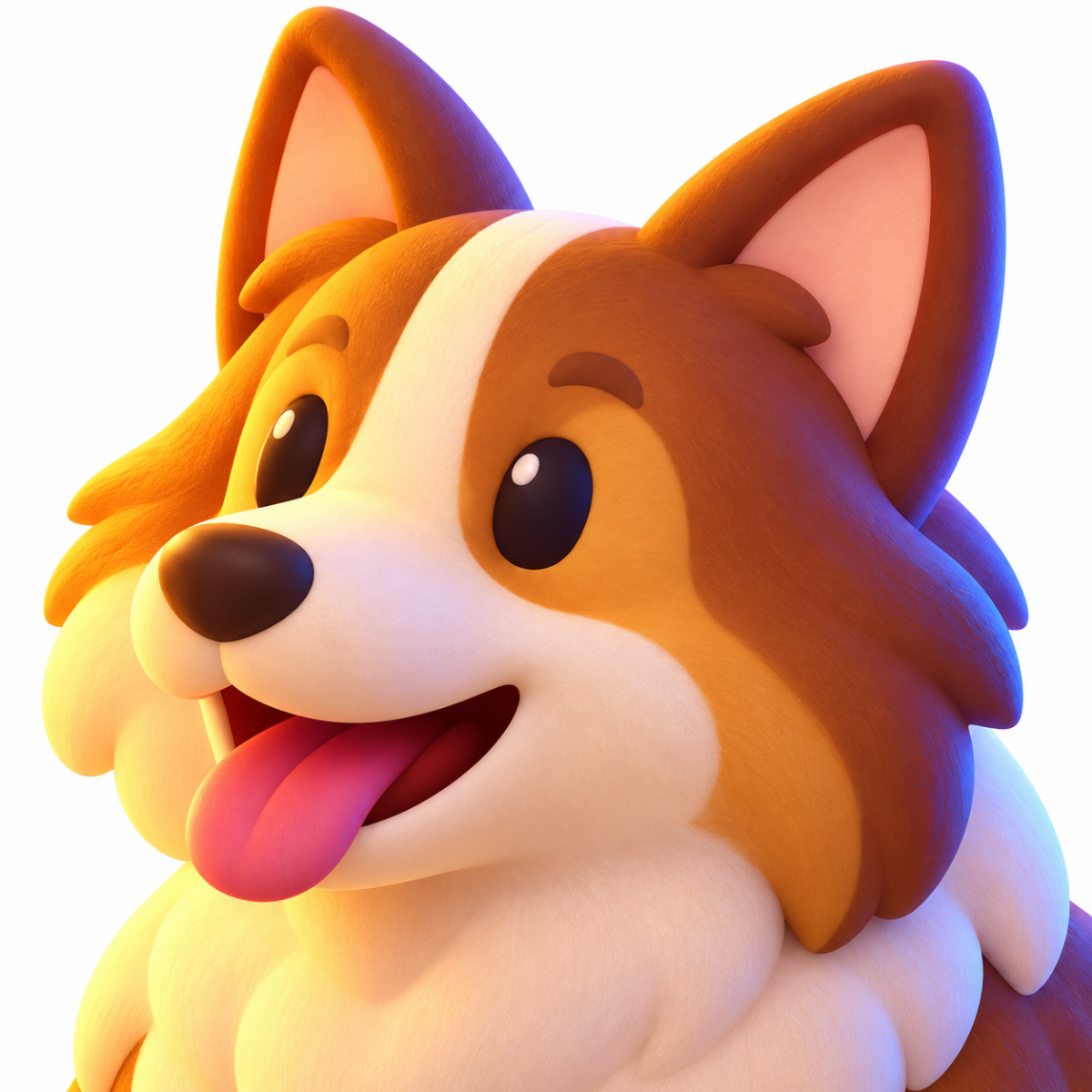
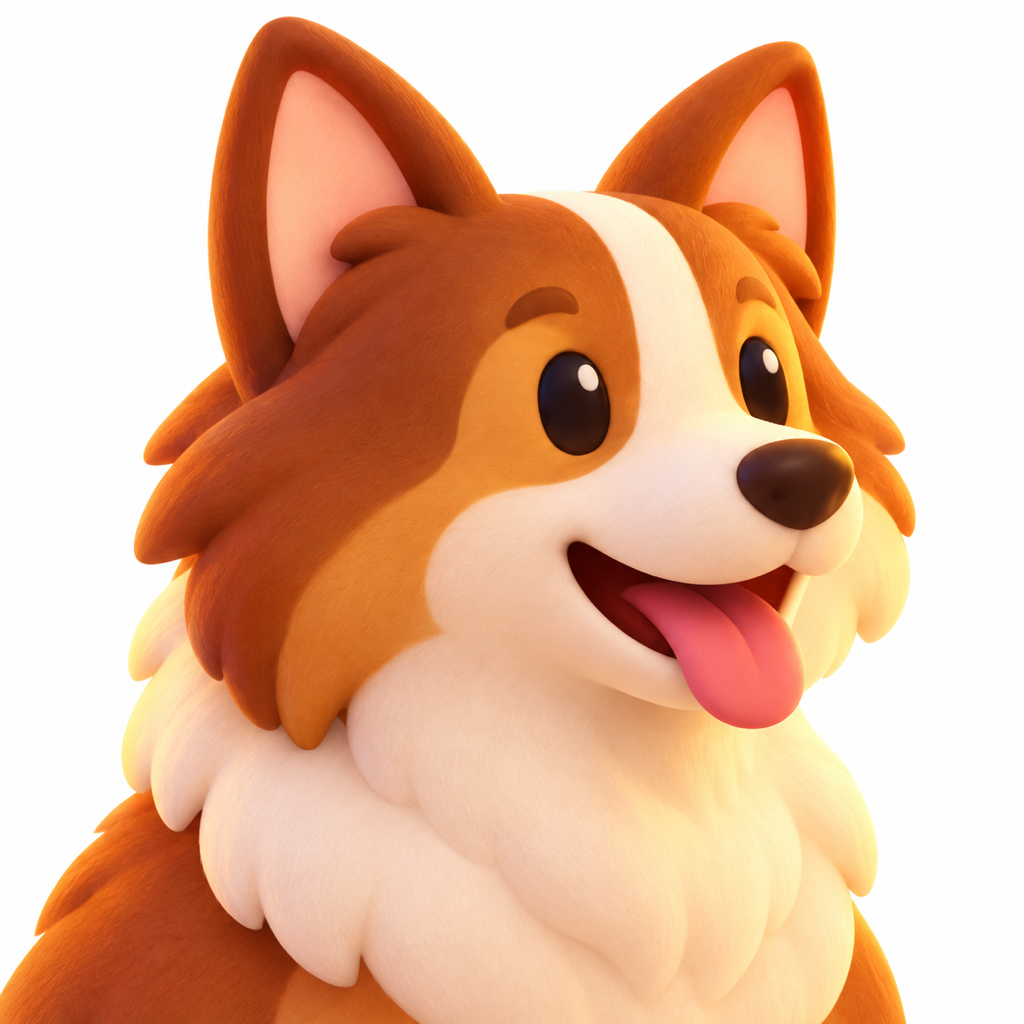
feat(art): 仿主流手遊三套圖分工——棋盤 Q 版小人、卡片頭像、圖鑑 512px 立繪＋燈箱；41 條稱號；小居批量生圖 56 張（James 10/26 拍板完整版）
- 28 個角色各生 Q 版（q-*）與頭像（h-*），48 張 512px 立繪（l-*）從原圖重出
- index.html：CHAR_KEYS／icoFile(e, use) 三套對照；圖鑑說明區左立繪右文字，點立繪開燈箱看大圖＋稱號＋出處
- render.js：棋盤改載 q-*，載不到退 c-* 再退文字；q-* 同 c-* 放大 1.35
- data.js：每個單位與敵人加 title 稱號；data v15、render v18
- 文件：研究報告 research-portrait-vs-sprite、素材計畫補記（小居 image_gen 流程與 bash 3.2 全形字坑）

Claude-Session: https://claude.ai/code/session_01SYPuyoVBYFpBbWmvumijvq

diff --git a/data.js b/data.js
@@ -1,5 +1,5 @@
 // 羊圈守夜 · 資料表。加單位、加敵人、加關卡都只改這裡。
-// 數值說明：cost 要花的糧；hp 能被咬幾下；every 幾秒做一次事；dmg 一下打多少；speed 每秒走幾格；bite 每秒咬掉多少血。
+// title：圖鑑角色頁的一句稱號（取自出處經文或角色定位，不進規則）。數值說明：cost 要花的糧；hp 能被咬幾下；every 幾秒做一次事；dmg 一下打多少；speed 每秒走幾格；bite 每秒咬掉多少血。
 'use strict';
 
 const ROWS = 5, COLS = 7;
@@ -10,63 +10,63 @@ const ROWS = 5, COLS = 7;
 // upgrade：放下後「再點一下」花糧升級，欄位會蓋過原本的（牧人升老牧人、石牆修補是另外寫死的特例）；fromId＝在哪一夜（id）學會，engine.js 載入時換算成 from＝那一夜的位置（顯示編號），desc 裡的 {from} 一併填入
 // heal 每秒回血／range 回血範圍幾格（1＝周圍八格、2＝5×5）／brave 獅子咆哮嚇不停
 const UNITS = {
-  shepherd: { name: '牧人',     ico: '🧑🌾', cost: 50,  hp: 60,  kind: 'producer', every: 7,   gives: 25,
+  shepherd: { name: '牧人', title: '羊圈的根基，糧從他手裡來',     ico: '🧑🌾', cost: 50,  hp: 60,  kind: 'producer', every: 7,   gives: 25,
               desc: '定時產糧。再點一下升級成老牧人，產糧更快', ref: '創 31:40' },
-  slinger:  { name: '投石手',   ico: '🙋',   cost: 100, hp: 60,  kind: 'shooter', every: 1.3, dmg: 20, shot: 'stone',
+  slinger:  { name: '投石手', title: '甩石不差毫髮的便雅憫人',   ico: '🙋',   cost: 100, hp: 60,  kind: 'shooter', every: 1.3, dmg: 20, shot: 'stone',
               desc: '投石攻擊同一排的敵人', ref: '士 20:16' },
-  wall:     { name: '石牆',     ico: '🧱',   cost: 50,  hp: 300, kind: 'blocker',
+  wall:     { name: '石牆', title: '為羊群築的牆',     ico: '🧱',   cost: 50,  hp: 300, kind: 'blocker',
               desc: '高血量擋路。再點一下花 25 糧修補', ref: '民 32:16' },
-  sling:    { name: '機弦手',   ico: '🎯',   cost: 150, hp: 60,  kind: 'shooter', every: 3.2, dmg: 90, shot: 'sling',
+  sling:    { name: '機弦手', title: '一顆石子，撂倒巨人',   ico: '🎯',   cost: 150, hp: 60,  kind: 'shooter', every: 3.2, dmg: 90, shot: 'sling',
               desc: '單發傷害高、攻擊間隔長，專打獅子和熊', ref: '撒上 17:40' },
-  dog:      { name: '牧羊犬',   ico: '🐕',   cost: 75,  hp: 220, kind: 'dog', dps: 10, hunt: 30, run: 1.6, rest: 10,
+  dog:      { name: '牧羊犬', title: '追賊的，不要命的',   ico: '🐕',   cost: 75,  hp: 220, kind: 'dog', dps: 10, hunt: 30, run: 1.6, rest: 10,
               desc: '抓賊的。追咬賊、偷羊人、狐狸、野狗；大傢伙也能拖幾秒。受傷回窩休息，不會死', ref: '伯 30:1' },
-  hireling: { name: '雇工',     ico: '🤾',   cost: 25,  hp: 40,  kind: 'shooter', every: 0.9, dmg: 10, shot: 'stone', range: 2.5, flees: 1.0,
+  hireling: { name: '雇工', title: '見狼來就撇下羊逃走',     ico: '🤾',   cost: 25,  hp: 40,  kind: 'shooter', every: 0.9, dmg: 10, shot: 'stone', range: 2.5, flees: 1.0,
               desc: '低費短射程投石手，敵人一靠近就逃跑', ref: '約 10:12' },
-  tower:    { name: '守望樓',   ico: '🗼',   cost: 125, hp: 600, kind: 'blocker', tall: true,
+  tower:    { name: '守望樓', title: '葡萄園中的樓，賊也翻不過',   ico: '🗼',   cost: 125, hp: 600, kind: 'blocker', tall: true,
               desc: '高血量防線，賊也翻不過', ref: '賽 5:2' },
-  archer:   { name: '弓箭手',   ico: '🏹',   cost: 125, hp: 60,  kind: 'shooter', every: 1.8, dmg: 26, shot: 'arrow', pierce: true, falloff: 0.8,
+  archer:   { name: '弓箭手', title: '在曠野長大的弓箭手',   ico: '🏹',   cost: 125, hp: 60,  kind: 'shooter', every: 1.8, dmg: 26, shot: 'arrow', pierce: true, falloff: 0.8,
               desc: '箭矢穿透整排，每穿一隻傷害降低', ref: '創 21:20' },
-  thorns:   { name: '荊棘',     ico: '🌿',   cost: 75,  hp: 150, kind: 'floor', slow: 0.5, dps: 6, wear: 3,
+  thorns:   { name: '荊棘', title: '用荊棘堵住她的道',     ico: '🌿',   cost: 75,  hp: 150, kind: 'floor', slow: 0.5, dps: 6, wear: 3,
               desc: '鋪地減速並持續傷害，踩久會損壞。放在射手前面最划算；第 {from} 夜起再點一下撒蠍子', ref: '何 2:6',
               // 升級：再點一下花糧撒蠍子進去，踩入的敵人中毒（from＝第幾夜起學會）；持續有效，每隻敵人同一片荊棘只叮一次
               upgrade: { name: '荊棘蠍窩', ico: '🦂', cost: 50, fromId: 5, poison: 8, desc: '撒蠍子進荊棘，踩入的敵人中毒，持續有效', ref: '申 8:15' } },
-  brazier:  { name: '火盆',     ico: '🔥',   cost: 75,  hp: 100, kind: 'support', ignite: true,
+  brazier:  { name: '火盆', title: '夜間按著更次看守羊群',     ico: '🔥',   cost: 75,  hp: 100, kind: 'support', ignite: true,
               desc: '點燃穿過的石子與箭矢，燃燒會傳給隔壁敵人', ref: '路 2:8' },
-  jar:      { name: '瓦瓶火把', ico: '🏺',   cost: 100, hp: 0,   kind: 'instant', dmg: 30, panic: 2.5,
+  jar:      { name: '瓦瓶火把', title: '打破瓦瓶，火把一亮', ico: '🏺',   cost: 100, hp: 0,   kind: 'instant', dmg: 30, panic: 2.5,
               desc: '一次性。九格範圍傷害，並嚇退敵人', ref: '士 7:19' },
-  horn:     { name: '吹角手',   ico: '📯',   cost: 100, hp: 60,  kind: 'support', every: 20, push: 1, stun: 2,
+  horn:     { name: '吹角手', title: '吹角，你們就蒙記念',   ico: '📯',   cost: 100, hp: 60,  kind: 'support', every: 20, push: 1, stun: 2,
               desc: '每 20 秒吹角，同排敵人後退一格並暈眩。第 {from} 夜起再點一下換銀號，五排一起退', ref: '民 10:9',
               // 升級：銀號，吹一次五排地面敵人全部後退並暈眩（all＝全場）
               upgrade: { name: '銀號', ico: '🎺', cost: 75, fromId: 14, all: true, desc: '換成銀號，吹一次五排的地面敵人全部後退一格並暈眩', ref: '民 10:2' } },
-  healer:   { name: '纏裹的牧人', ico: '🩹', cost: 100, hp: 60,  kind: 'support', every: 1, heal: 8, range: 1, brave: true,
+  healer:   { name: '纏裹的牧人', title: '受傷的，我必纏裹', ico: '🩹', cost: 100, hp: 60,  kind: 'support', every: 1, heal: 8, range: 1, brave: true,
               desc: '不攻擊，持續回復周圍八格夥伴的血量，不怕獅子咆哮。第 {from} 夜起再點一下膏油，範圍擴大到 5×5、回復更多血量', ref: '結 34:16',
               // 升級：再點一下花糧膏油，範圍 1 格→2 格（5×5 共 24 格）、回血 8→12；brave＝獅子咆哮嚇不停它
               upgrade: { name: '膏油', ico: '🫗', cost: 50, fromId: 7, heal: 12, range: 2, desc: '膏油後周圍 5×5 共 24 格的夥伴每秒回復 12 血量，一位顧整條防線', ref: '詩 23:5' } },
-  catapult: { name: '投石機',   ico: '🛞',   cost: 200, hp: 80,  kind: 'shooter', every: 4, dmg: 45, shot: 'lob', splash: 1.2,
+  catapult: { name: '投石機', title: '巧匠所設計的機器',   ico: '🛞',   cost: 200, hp: 80,  kind: 'shooter', every: 4, dmg: 45, shot: 'lob', splash: 1.2,
               desc: '攻擊同排最遠的敵人，濺射傷害波及落點周圍。拋射飛得過山坡。第 {from} 夜起再點一下換巧匠的機器，裝填快一半、濺射更大', ref: '代下 26:15',
               // 升級（第三章）：巧匠的機器，裝填 4 秒→2.6 秒、濺射 1.2→1.5 格；every／splash 蓋過原本的
               upgrade: { name: '巧匠的機器', ico: '⚙', cost: 100, fromId: 28, every: 2.6, splash: 1.5, desc: '裝填 4 秒變 2.6 秒、濺射 1.2 格變 1.5 格，斜坡上擠成串的狼一砸一片', ref: '代下 26:15' } },
   // ====== 第二章「另外的羊」 ======
-  staff:    { name: '牧人杖',   ico: '🦯',   cost: 50,  hp: 150, kind: 'deflector', deflect: 10, deflectCd: 4,
+  staff:    { name: '牧人杖', title: '你的杖、你的竿，都安慰我',   ico: '🦯',   cost: 50,  hp: 150, kind: 'deflector', deflect: 10, deflectCd: 4,
               desc: '不攻擊。地面敵人走到它面前就被趕到隔壁排，放在沒有射手的排，把敵人趕進有射手的那排。頭目趕不動', ref: '詩 23:4' },
-  lamp:     { name: '油燈',     ico: '🪔',   cost: 50,  hp: 60,  kind: 'support', light: 1,
+  lamp:     { name: '油燈', title: '她的燈終夜不滅',     ico: '🪔',   cost: 50,  hp: 60,  kind: 'support', light: 1,
               desc: '不攻擊。照亮自己這排和上下兩排：光裡的敵人不換排（豺狼不繞路、豹不跳排、夜鴞不飄），無月夜裡那三排的腳印預告也會回來。放中間那排最划算', ref: '箴 31:18' },
-  patrol:   { name: '巡夜人',   ico: '🚶',   cost: 125, hp: 140, kind: 'patrol', every: 0.8, dmg: 18, walk: 1.2, reach: 1.3,
+  patrol:   { name: '巡夜人', title: '晝夜作我們的保障',   ico: '🚶',   cost: 125, hp: 140, kind: 'patrol', every: 0.8, dmg: 18, walk: 1.2, reach: 1.3,
               desc: '在本排與上下鄰排巡邏，空閒時優先趕往近戰範圍內受威脅的排；接敵後留在那排攻擊。站在哪排就擋哪排的狼；鄰排那格有東西就走不進去', ref: '撒上 25:16' },
-  volley:   { name: '投石隊',   ico: '🥌',   cost: 175, hp: 60,  kind: 'shooter', every: 1.6, dmg: 14, shot: 'stone', lanes: 1,
+  volley:   { name: '投石隊', title: '左右兩手都能甩石',   ico: '🥌',   cost: 175, hp: 60,  kind: 'shooter', every: 1.6, dmg: 14, shot: 'stone', lanes: 1,
               desc: '同時投石攻擊自己這排和上下兩排。放中間一次顧三排，夜鴞飄到哪排都打得到', ref: '代上 12:2' },
-  cradle:   { name: '抱羊羔的牧人', ico: '🫂', cost: 75, hp: 100, kind: 'support', cradle: true,
+  cradle:   { name: '抱羊羔的牧人', title: '用膀臂聚集羊羔，抱在懷中', ico: '🫂', cost: 75, hp: 100, kind: 'support', cradle: true,
               desc: '不攻擊。本排與上下鄰排的迷羊走到他所在的那一欄，就立刻安全。放前面接得早，但仍需保護他', ref: '賽 40:11' },
   // ====== 第三章「諸山間」 ======
   // lobNear 拋最前面那隻（投石機是拋最遠的）；hillOnly 只能放坡上；rolls 被咬垮或點一下推倒會滾石（rollDmg 傷害、rollPush 退幾格、rollStun 暈幾秒）；norepair 不能修補
   // trap 困住第一隻踩進來的地面敵人幾秒、trapBoss 頭目幾秒（一次性）；healAll 倒在哪格，九格內的夥伴回滿血
-  lobber:    { name: '拋石手',  ico: '🪃',  cost: 125, hp: 60,  kind: 'shooter', every: 2.0, dmg: 28, shot: 'lob', lobNear: true, splash: 0.45,
+  lobber:    { name: '拋石手', title: '拋擲石頭有時',  ico: '🪃',  cost: 125, hp: 60,  kind: 'shooter', every: 2.0, dmg: 28, shot: 'lob', lobNear: true, splash: 0.45,
                desc: '把石頭拋到同排最前面那隻敵人頭上。拋得過山坡，厚皮也全額；落點小，通常只中一隻', ref: '傳 3:5' },
-  cairn:     { name: '石堆',    ico: '⛰',  cost: 50,  hp: 200, kind: 'blocker', hillOnly: true, rolls: true, norepair: true, rollDmg: 80, rollPush: 1, rollStun: 1,
+  cairn:     { name: '石堆', title: '堆聚石頭有時',    ico: '⛰',  cost: 50,  hp: 200, kind: 'blocker', hillOnly: true, rolls: true, norepair: true, rollDmg: 80, rollPush: 1, rollStun: 1,
                desc: '只能堆在斜坡那三格，是一道便宜的牆。被咬垮或自己點一下推倒，石頭就滾下坡：右邊的地面敵人受傷、退一格、暈一下。不能修補、推倒不退糧', ref: '傳 3:5' },
-  pit:       { name: '陷坑',    ico: '🕳',  cost: 75,  hp: 1,   kind: 'floor', trap: 4, trapBoss: 2.5,
+  pit:       { name: '陷坑', title: '他就被陷在坑裡',    ico: '🕳',  cost: 75,  hp: 1,   kind: 'floor', trap: 4, trapBoss: 2.5,
                desc: '一次性。第一隻踩進來的地面敵人困住 4 秒（頭目 2.5 秒），坑就塌了。挖在斜坡第一格（第 5 格、牆前面），困住的敵人卡在坡緣，射手打得到', ref: '結 19:8' },
-  waterskin: { name: '水袋',    ico: '🥛',  cost: 75,  hp: 0,   kind: 'instant', healAll: true,
+  waterskin: { name: '水袋', title: '一皮袋水，給夏甲',    ico: '🥛',  cost: 75,  hp: 0,   kind: 'instant', healAll: true,
                desc: '一次性。倒在哪一格，九格內的夥伴血量回滿、不再害怕。守望樓被撞到剩一口氣時用', ref: '創 21:14' },
 };
 const ELDER_MUL = 0.6;    // 老牧人送糧間隔倍數
@@ -89,46 +89,46 @@ const PICK_ORDER = ['shepherd', 'slinger', 'wall', 'sling', 'dog', 'lobber', 'ca
 // thick 厚皮：石子和箭只打 THICK_MUL（35%），機弦、投石機、火、毒全額（所以「石子打不痛牠」）；prio 狗優先咬誰（越大越先）
 const ENEMIES = {
   // ref：經文出處（圖鑑敵方頁顯示；正本對照表在 docs/roster.md）
-  wolf:    { name: '狼',     ico: '🐺', hp: 60,  speed: 0.22, bite: 12, ref: '創 31:39' },
-  fast:    { name: '快狼',   ico: '🐺', hp: 40,  speed: 0.40, bite: 10, cls: 'fast', ref: '哈 1:8' },
-  alpha:   { name: '領頭狼', ico: '🐺', hp: 200, speed: 0.20, bite: 15, cls: 'alpha', howl: 8, prio: 4, boss: true, ref: '哈 1:8',
+  wolf:    { name: '狼', title: '夜裡來撕裂的',     ico: '🐺', hp: 60,  speed: 0.22, bite: 12, ref: '創 31:39' },
+  fast:    { name: '快狼', title: '比晚上的豺狼更猛',   ico: '🐺', hp: 40,  speed: 0.40, bite: 10, cls: 'fast', ref: '哈 1:8' },
+  alpha:   { name: '領頭狼', title: '一聲長嚎，狼群齊奔', ico: '🐺', hp: 200, speed: 0.20, bite: 15, cls: 'alpha', howl: 8, prio: 4, boss: true, ref: '哈 1:8',
              tip: '嚎叫讓附近狼群加速。派牧羊犬咬住牠' },
-  bear:    { name: '母熊',   ico: '🐻', hp: 420, speed: 0.15, bite: 25, cls: 'big', enrage: 0.5, thick: true, prio: 2, boss: true, ref: '撒下 17:8',
+  bear:    { name: '母熊', title: '田野裡丟崽子的母熊',   ico: '🐻', hp: 420, speed: 0.15, bite: 25, cls: 'big', enrage: 0.5, thick: true, prio: 2, boss: true, ref: '撒下 17:8',
              tip: '血量高，半血狂暴。石子傷害低，改用機弦手' },
-  lion:    { name: '獅子',   ico: '🦁', hp: 600, speed: 0.15, bite: 30, cls: 'big lion', roar: 12, wallMul: 4, thick: true, prio: 2, boss: true, ref: '摩 3:8',
+  lion:    { name: '獅子', title: '獅子吼叫，誰不懼怕',   ico: '🦁', hp: 600, speed: 0.15, bite: 30, cls: 'big lion', roar: 12, wallMul: 4, thick: true, prio: 2, boss: true, ref: '摩 3:8',
              tip: '咆哮讓附近夥伴停手，拆牆很快。狗拖住，機弦手集中攻擊' },
-  thief:   { name: '賊',     ico: '🥷', hp: 70,  speed: 0.25, bite: 10, cls: 'human', vaults: true, prio: 3, ref: '約 10:1',
+  thief:   { name: '賊', title: '從別處爬進去的',     ico: '🥷', hp: 70,  speed: 0.25, bite: 10, cls: 'human', vaults: true, prio: 3, ref: '約 10:1',
              tip: '會翻過石牆，改用守望樓攔截' },
-  rustler: { name: '偷羊人', ico: '🧔', hp: 90,  speed: 0.30, bite: 4,  cls: 'human light', steals: true, fleeSpeed: 0.45, prio: 5, ref: '創 31:39',
+  rustler: { name: '偷羊人', title: '抱了羊就跑', ico: '🧔', hp: 90,  speed: 0.30, bite: 4,  cls: 'human light', steals: true, fleeSpeed: 0.45, prio: 5, ref: '創 31:39',
              tip: '不攻擊，走到底就抱羊逃跑。派牧羊犬追捕救羊' },
-  fox:     { name: '小狐狸', ico: '🦊', hp: 30,  speed: 0.35, bite: 6,  cls: 'small', dodge: 0.7, prio: 3, ref: '歌 2:15',
+  fox:     { name: '小狐狸', title: '毀壞葡萄園的小狐狸', ico: '🦊', hp: 30,  speed: 0.35, bite: 6,  cls: 'small', dodge: 0.7, prio: 3, ref: '歌 2:15',
              tip: '十顆石子閃掉七顆。改用牧羊犬或荊棘' },
-  locust:  { name: '蝗群',   ico: '🦗', hp: 8,   speed: 0.30, bite: 2,  cls: 'swarm', ref: '箴 30:27',
+  locust:  { name: '蝗群', title: '沒有君王，卻分隊而出',   ico: '🦗', hp: 8,   speed: 0.30, bite: 2,  cls: 'swarm', ref: '箴 30:27',
              tip: '成群出現，用弓箭手穿透，一箭打多隻' },
-  digger:  { name: '野狗',   ico: '🐕🦺', hp: 80, speed: 0.22, bite: 12, cls: 'dig', digs: true, digSpeed: 0.35, ref: '瑪 1:3',
+  digger:  { name: '野狗', title: '曠野的野狗',   ico: '🐕🦺', hp: 80, speed: 0.22, bite: 12, cls: 'dig', digs: true, digSpeed: 0.35, ref: '瑪 1:3',
              tip: '鑽地繞過前排。土堆是牠冒出來的地方，在土堆左邊放牆或狗' },
-  bird:    { name: '鷙鳥',   ico: '🦅', hp: 50,  speed: 0.20, bite: 0,  cls: 'fly', flying: true, ref: '創 15:11',
+  bird:    { name: '鷙鳥', title: '鷙鳥下來落在祭物上',   ico: '🦅', hp: 50,  speed: 0.20, bite: 0,  cls: 'fly', flying: true, ref: '創 15:11',
              tip: '飛越牆與狗，射手的投射和瓦瓶火把才打得到' },
   // ====== 第二章「另外的羊」 ======
   // detour 繞路：前面是牆、隔壁排同一格沒牆就跳過去（冷卻秒數）；slam 撞牆第一下傷害、slamStun 撞完自己暈幾秒、trample 踩爛荊棘
   // drift 在上下幾排之間飄、driftT 飄一圈幾秒；shiftEvery 每幾秒換一排；crouchAt 走到第幾格蹲、crouch 蹲幾秒、dash 之後衝幾格
-  jackal:  { name: '豺狼',   ico: '🐺', hp: 70,  speed: 0.26, bite: 12, cls: 'sly', detour: 6, prio: 3, ref: '耶 5:6',
+  jackal:  { name: '豺狼', title: '曠野的豺狼',   ico: '🐺', hp: 70,  speed: 0.26, bite: 12, cls: 'sly', detour: 6, prio: 3, ref: '耶 5:6',
              tip: '碰到牆就繞到隔壁排。光靠牆攔不住，派牧羊犬咬住牠' },
-  boar:    { name: '野豬',   ico: '🐗', hp: 320, speed: 0.30, bite: 20, cls: 'big boar', slam: 100, slamStun: 1.5, trample: true, prio: 2, ref: '詩 80:13',
+  boar:    { name: '野豬', title: '林中出來的野豬',   ico: '🐗', hp: 320, speed: 0.30, bite: 20, cls: 'big boar', slam: 100, slamStun: 1.5, trample: true, prio: 2, ref: '詩 80:13',
              tip: '撞牆第一下很重，還會踩爛荊棘。守望樓擋得住，機弦手打得快' },
-  owl:     { name: '夜鴞',   ico: '🦉', hp: 60,  speed: 0.18, bite: 0,  cls: 'fly owl', flying: true, drift: 1, driftT: 4, ref: '詩 102:6',
+  owl:     { name: '夜鴞', title: '荒場的鴞鳥',   ico: '🦉', hp: 60,  speed: 0.18, bite: 0,  cls: 'fly owl', flying: true, drift: 1, driftT: 4, ref: '詩 102:6',
              tip: '在排與排之間飄，單排射手常打空。投石隊一次打三排' },
-  leopard: { name: '豹',     ico: '🐆', hp: 650, speed: 0.28, bite: 28, cls: 'big leopard', thick: true, vaults: true, shiftEvery: 7, crouchAt: 5, crouch: 2, dash: 2, prio: 2, boss: true, ref: '耶 5:6',
+  leopard: { name: '豹', title: '窺伺城邑的豹子',     ico: '🐆', hp: 650, speed: 0.28, bite: 28, cls: 'big leopard', thick: true, vaults: true, shiftEvery: 7, crouchAt: 5, crouch: 2, dash: 2, prio: 2, boss: true, ref: '耶 5:6',
              tip: '跳過牆、每隔幾秒換一排走，蹲下來就要衝了。牧羊犬咬住牠，投石隊三排盯著' },
   // ====== 第三章「諸山間」 ======
   // throws 強盜：走到第 at 格就站住，每 every 秒朝這排最前面的夥伴丟一顆石頭（dmg）；這排沒夥伴了才繼續走
   // high 大鷹：飛進來時飛得高，投射物與瓦瓶都打不到；守望樓那一排飛不高；抓了羊往回飛就一直低
   // heavy 野牛：推不動（角聲、瓦瓶、滾石只傷不推、不暈）、狗不理、斜坡上不減速、荊棘減得慢；陷坑照 trapBoss 困得住
-  robber:  { name: '強盜',   ico: '🧔♂', hp: 80,  speed: 0.25, bite: 10, cls: 'human', throws: { at: 5, every: 1.5, dmg: 10 }, prio: 3, ref: '路 10:30',
+  robber:  { name: '強盜', title: '落在強盜手中',   ico: '🧔♂', hp: 80,  speed: 0.25, bite: 10, cls: 'human', throws: { at: 5, every: 1.5, dmg: 10 }, prio: 3, ref: '路 10:30',
              tip: '站在斜坡上丟石頭，專丟最前面的夥伴，直射打不到牠。派狗咬牠、拋石手砸、或推倒石堆' },
-  eagle:   { name: '大鷹',   ico: '🦅', hp: 90,  speed: 0.25, bite: 0,  cls: 'fly eagle', flying: true, high: true, steals: true, fleeSpeed: 0.45, ref: '伯 39:27',
+  eagle:   { name: '大鷹', title: '大鷹上騰，在高處搭窩',   ico: '🦅', hp: 90,  speed: 0.25, bite: 0,  cls: 'fly eagle', flying: true, high: true, steals: true, fleeSpeed: 0.45, ref: '伯 39:27',
              tip: '飛得高，投射物打不到，只有守望樓那排牠飛不高。抓了羊往回飛就低了，飛出場前打下來' },
-  aurochs: { name: '野牛',   ico: '🐂', hp: 900, speed: 0.14, bite: 30, cls: 'big aurochs', thick: true, heavy: true, boss: true, slam: 150, slamStun: 1.0, wallMul: 2, ref: '詩 22:21',
+  aurochs: { name: '野牛', title: '救我脫離野牛的角',   ico: '🐂', hp: 900, speed: 0.14, bite: 30, cls: 'big aurochs', thick: true, heavy: true, boss: true, slam: 150, slamStun: 1.0, wallMul: 2, ref: '詩 22:21',
              tip: '撞牆很重，推不動、狗咬不住、在斜坡上也不慢。陷坑困住牠 2.5 秒，所有人一起打' },
 };
 

diff --git a/index.html b/index.html
@@ -257,7 +257,18 @@
   .rc.focus { outline: 2px solid var(--text); outline-offset: 1px; }
   .rc.on::after { content: '✓'; position: absolute; right: 4px; bottom: 2px; font-size: 11px; color: var(--gold); }
   #roster-count { font-size: 13px; color: var(--muted); margin-top: 8px; min-height: 16px; }
-  #roster-detail { text-align: left; background: #0004; border-radius: 8px; padding: 10px 12px; margin-top: 8px; font-size: 14px; line-height: 1.6; height: 122px; overflow-y: auto; }
+  #roster-detail { text-align: left; background: #0004; border-radius: 8px; padding: 10px 12px; margin-top: 8px; font-size: 14px; line-height: 1.6; height: 150px; overflow-y: auto; display: flex; gap: 10px; }
+  /* 圖鑑角色頁：左邊立繪（點一下開燈箱看大圖）、右邊名字＋稱號＋數值（2026-10-26 James：遊戲內的圖太小，圖鑑要看得清楚） */
+  #roster-detail .big { width: 96px; height: 96px; flex: none; object-fit: contain; cursor: zoom-in; border-radius: 8px; background: #0003; align-self: flex-start; -webkit-user-drag: none; }
+  #roster-detail .dt { flex: 1; min-width: 0; }
+  #roster-detail .sub { display: block; color: var(--muted); font-size: 12px; line-height: 1.3; margin: -2px 0 4px; }
+  #lightbox { z-index: 20; background: #000d; cursor: zoom-out; }
+  .lb { text-align: center; max-width: 92vw; }
+  .lb img { width: min(80vw, 360px); aspect-ratio: 1; object-fit: contain; filter: drop-shadow(0 10px 18px #000a); -webkit-user-drag: none; }
+  .lb .n { font-size: 24px; color: var(--gold); font-weight: bold; margin-top: 6px; }
+  .lb .t { font-size: 16px; margin-top: 4px; }
+  .lb .r { font-size: 13px; color: var(--muted); margin-top: 4px; }
+  .lb .h { font-size: 12px; color: var(--muted); margin-top: 14px; }
   #roster-detail b { color: var(--gold); }
   #roster-detail .ref { margin: 0; }
   #roster-detail .num { color: var(--muted); font-size: 13px; }
@@ -370,6 +381,10 @@
     <button class="btn alt" id="roster-back">回上一頁</button>
   </div>
 </div>
+<!-- 圖鑑燈箱：點立繪看大圖，點任何地方關 -->
+<div class="overlay" id="lightbox" hidden>
+  <div class="lb"><img id="lb-img" alt=""><div class="n" id="lb-name"></div><div class="t" id="lb-title"></div><div class="r" id="lb-ref"></div><div class="h">點一下關閉</div></div>
+</div>
 
 <!-- 暫停 -->
 <div class="overlay" id="pause" hidden>
@@ -402,11 +417,11 @@
   </div>
 </div>
 
-<script src="data.js?v=14"></script>
+<script src="data.js?v=15"></script>
 <script src="engine.js?v=18"></script>
 <script src="sound.js?v=7"></script>
 <script src="lib/pixi.min.js"></script>
-<script src="render.js?v=17"></script>
+<script src="render.js?v=18"></script>
 <script>
 'use strict';
 // ROWS、COLS、UNITS、ENEMIES、STRAY、DIFFS、LEVELS 由 data.js 直接提供
@@ -496,16 +511,19 @@ const ICON_IMG = {
   '🪃': 'c-thrower', '🕳': 'c-pit', '🥛': 'c-waterskin', '⛰': 'c-stonepile', '🧔♂': 'c-bandit', '🐂': 'c-ox', // 第三章：拋石手、陷坑、水袋、石堆（圖鑑的「山坡」也用它）、強盜、野牛；大鷹跟鷙鳥同一張 eagle，靠放大與鷹形影子分
   '🦴': 'c-kennel', '🪵': 'c-post', '🧍': 'c-gatekeeper', '⛏': 'c-shovel', '🐾': 'c-paws', '🧑': 'person', '🐩': 'poodle', // 狗窩、崗位、看門的、鏟子、腳印、組合字備援
 };
-function icoImg(e) { const f = ICON_IMG[e]; return f ? `<img class="ei" src="img/ico/${f}.webp" alt="${e}" onerror="icoFail(this)">` : e; }
+// 角色（人與動物）各有三套圖：棋盤 q-*（Q 版小人，縮到一格還認得出）、卡片與行內 h-*（頭像）、圖鑑角色頁 l-*（512px 立繪，48 張都有）。道具與標記棋盤和卡片都用原本的 c-*（2026-10-26 仿主流手遊的分工）
+const CHAR_KEYS = new Set(['farmer', 'slinger', 'sling', 'dog', 'hireling', 'archer', 'horn', 'healer', 'patrol', 'volley', 'cradle', 'thrower', 'gatekeeper', 'ewe', 'wolf', 'bear', 'lion', 'thief', 'stealer', 'fox', 'locust', 'wilddog', 'eagle', 'boar', 'owl', 'leopard', 'bandit', 'ox']);
+function icoFile(e, use) { const f = ICON_IMG[e]; if (!f) return null; const k = f.replace(/^c-/, ''); if (use === 'big') return f.startsWith('c-') ? 'l-' + k : f; if (!CHAR_KEYS.has(k)) return f; return use === 'board' ? 'q-' + k : 'h-' + k; }
+function icoImg(e) { const f = icoFile(e, 'head'); return f ? `<img class="ei" src="img/ico/${f}.webp" alt="${e}" onerror="icoFail(this)">` : e; }
 function icoFail(img) { img.replaceWith(document.createTextNode(img.alt)); }
 // 開局就把圖先載進快取：狼第一次出現、第一次開圖鑑都不會閃一下空白
-(window.requestIdleCallback || setTimeout)(() => { for (const f of new Set(Object.values(ICON_IMG))) { const i = new Image(); i.src = `img/ico/${f}.webp`; } });
+(window.requestIdleCallback || setTimeout)(() => { for (const f of new Set(Object.keys(ICON_IMG).map(e => icoFile(e, 'head')))) { const i = new Image(); i.src = `img/ico/${f}.webp`; } });
 
 // ====== 畫面建立 ======
 // 棋盤是 canvas（render.js）：點格子交給 tapCell；拿著卡滑過（桌機）或按住（手機）可放的格子，先亮出這張卡管得到的格子，放下後再亮 1.3 秒（tapCell）
 let boardReady = false;
 async function buildBoard() {
-  boardReady = await Board.init({ el: $('#board'), icons: ICON_IMG, onTap: tapCell,
+  boardReady = await Board.init({ el: $('#board'), icons: Object.fromEntries(Object.keys(ICON_IMG).map(e => [e, icoFile(e, 'board')])), onTap: tapCell,
     onHover: (r, c) => { if (r === null) { if (!rangeTimer) clearRange(); return; } if (selected && selected !== 'shovel' && hintMap.has(r + ',' + c)) showRange(rangeCells(selected, r, c)); },
     // 畫面層出錯：引擎沒事，遊戲照走；說一聲並記在 localStorage（sheepfold-lasterr，給除錯用），不像引擎出錯那樣回關卡
     onError: msg => { toast('畫面出了點狀況，已記下來；遊戲照常繼續', true); try { localStorage.setItem('sheepfold-lasterr', `${new Date().toISOString()} ${msg}`.slice(0, 2000)); } catch (e) {} } });
@@ -1165,12 +1183,21 @@ function renderRosterDetail() {
     const away = roster.mode !== 'pick' && roster.from === 'intro' && !level.units.includes(k);
     const learns = roster.from === 'intro' && u.upgrade && u.upgrade.from === Engine.posOf(level.id);
     const note = away ? '<br><span class="new">這一夜還沒遇見，要到後面的夜才會同行</span>' : fresh ? `<br><span class="new">這一夜新開的卡${roster.mode === 'pick' ? '，建議帶上' : ''}</span>` : learns ? `<br><span class="new">這一夜起學會「${u.upgrade.name}」：放下後再點一下</span>` : roster.mode === 'pick' && k === 'shepherd' ? '<br><span class="new">沒有牧人就沒有糧，一定帶</span>' : '';
-    box.innerHTML = `<b>${icoImg(u.ico)} ${u.name}</b>　<span class="num">🌾 ${u.cost}</span><br>${u.desc}${note}<br><span class="num">${unitNums(k)}</span><div class="ref">${fullRef(u.ref)}${u.upgrade ? '・升級 ' + fullRef(u.upgrade.ref) : ''}</div>`;
+    box.innerHTML = `${bigImg(u, 'units', k)}<div class="dt"><b>${u.name}</b>　<span class="num">🌾 ${u.cost}</span><span class="sub">${u.title || ''}</span>${u.desc}${note}<br><span class="num">${unitNums(k)}</span><div class="ref">${fullRef(u.ref)}${u.upgrade ? '・升級 ' + fullRef(u.upgrade.ref) : ''}</div></div>`;
   } else {
     const e = ENEMIES[k];
-    box.innerHTML = `<b>${icoImg(e.ico)} ${e.name}</b><br>${e.tip || '最普通的一隻，走到最左邊就闖進羊圈'}<br><span class="num">${enemyNums(k)}</span>${e.ref ? `<div class="ref">${fullRef(e.ref)}</div>` : ''}`;
+    box.innerHTML = `${bigImg(e, 'enemies', k)}<div class="dt"><b>${e.name}</b><span class="sub">${e.title || ''}</span>${e.tip || '最普通的一隻，走到最左邊就闖進羊圈'}<br><span class="num">${enemyNums(k)}</span>${e.ref ? `<div class="ref">${fullRef(e.ref)}</div>` : ''}</div>`;
   }
 }
+// 圖鑑角色頁的立繪：有 l-* 大圖就放，點一下開燈箱；沒圖（載不到）就退回頭像
+function bigImg(d, tab, k) { const f = icoFile(d.ico, 'big'); return f ? `<img class="big" src="img/ico/${f}.webp" alt="${d.name}" data-tab="${tab}" data-key="${k}" onerror="this.remove()">` : ''; }
+$('#roster-detail').addEventListener('click', ev => {
+  const img = ev.target.closest('img.big'); if (!img) return;
+  const d = (img.dataset.tab === 'units' ? UNITS : ENEMIES)[img.dataset.key]; if (!d) return;
+  $('#lb-img').src = img.src; $('#lb-img').alt = d.name; $('#lb-name').textContent = d.name; $('#lb-title').textContent = d.title || ''; $('#lb-ref').textContent = fullRef(d.ref);
+  $('#lightbox').hidden = false;
+});
+$('#lightbox').addEventListener('click', () => { $('#lightbox').hidden = true; });
 document.querySelectorAll('.tab').forEach(b => b.addEventListener('click', () => { roster.tab = b.dataset.tab; roster.focus = null; renderRoster(); }));
 $('#roster-go').addEventListener('click', () => { if (roster.picked.size < MIN_CARDS) return; saveLoadout(level.id, sortUnits([...roster.picked])); $('#roster').hidden = true; const cp = pendingCp; pendingCp = null; startGame(cp); });
 $('#roster-back').addEventListener('click', () => { $('#roster').hidden = true; if (roster.from === 'intro') { showIntroNew(level); $('#intro').hidden = false; } else if (roster.from === 'pause') $('#pause').hidden = false; else $('#levels').hidden = false; });

diff --git a/render.js b/render.js
@@ -57,7 +57,9 @@ const Board = (() => {
       el.appendChild(app.canvas);
       // 圖一張一張載：哪張載不到就那張退回系統 emoji 文字，不會整批空白
       const files = new Set(Object.values(ICONS));
-      await Promise.all([...files].map(f => PIXI.Assets.load({ alias: f, src: `img/ico/${f}.webp` }).then(t => { tex[f] = t; }, () => { tex[f] = null; })));
+      // q-*（Q 版小人）載不到就退回同名的 c-* 全身圖，再不行才退文字
+      const load = f => PIXI.Assets.load({ alias: f, src: `img/ico/${f}.webp` }).then(t => { tex[f] = t; }, () => (f.startsWith('q-') ? PIXI.Assets.load({ alias: 'c-' + f.slice(2), src: `img/ico/c-${f.slice(2)}.webp` }).then(t => { tex[f] = t; }, () => { tex[f] = null; }) : (tex[f] = null)));
+      await Promise.all([...files].map(load));
       makeTextures(); buildLayers(); bindPointer();
       // 盒子大小變了就重排並立刻畫一幀（暫停中沒有 tick，不畫會留白）；延到下一幀做，不然在回呼裡改 canvas 尺寸會被瀏覽器記一筆「ResizeObserver loop」警告
       if (typeof ResizeObserver !== 'undefined') { let queued = false; new ResizeObserver(() => { if (queued) return; queued = true; requestAnimationFrame(() => { queued = false; if (app) { app.resize(); frame(G, 0); } }); }).observe(el); }
@@ -229,7 +231,7 @@ const Board = (() => {
   // 圖示：有圖用圖，沒圖（載不到）退回系統 emoji 文字
   function makeIcon(emoji, size) {
     const f = ICONS[emoji], t = f && tex[f];
-    if (t) { const s = new PIXI.Sprite(t); s.anchor.set(.5); s.width = s.height = size * (f.startsWith('c-') ? 1.35 : 1); return s; } // c-*：全身角色圖已裁到角色邊框，比原本填滿方格的圖示瘦長，放大 1.35 倍在手機上才看得到（James 10/26）
+    if (t) { const s = new PIXI.Sprite(t); s.anchor.set(.5); s.width = s.height = size * (f.startsWith('c-') || f.startsWith('q-') ? 1.35 : 1); return s; } // c-*／q-*：角色圖已裁到角色邊框，比原本填滿方格的圖示瘦長，放大 1.35 倍在手機上才看得到（James 10/26）
     const txt = new PIXI.Text({ text: emoji, style: { fontSize: size * .85, fontFamily: '-apple-system, "Apple Color Emoji", "Segoe UI Emoji", "Noto Color Emoji", sans-serif' } }); txt.anchor.set(.5); return txt;
   }
   function makeText(text, size, fill, bold) {

diff --git a/docs/research-portrait-vs-sprite-2026-10-26.md b/docs/research-portrait-vs-sprite-2026-10-26.md
@@ -1,0 +1,67 @@
+# 研究：遊戲內小圖 vs 圖鑑大立繪
+
+日期：2026-10-26
+問題：棋盤格子裡角色只有約 30-40px 看不清；圖鑑也只是小圖。(1) 其他塔防／手遊怎麼分工遊戲內小圖與圖鑑大立繪？(2)「圖鑑完整立繪＋遊戲內 Q 版」常見嗎？成本？(3) 圖鑑點擊放大的 UI 慣例？
+
+**先講誠實的話**：這次搜尋額度只有 12 次，且多個 wiki（PvZ、Fire Emblem Heroes）抓取被擋（HTTP 402），搜尋結果也沒給出各遊戲「兩套圖是否分開畫」的一手說明。所以下面凡標「未找到一手來源」的，都是依常識的二手推論，請當參考，不要當定論。
+
+---
+
+## 問題 1：遊戲內小圖與圖鑑大圖怎麼分工？
+
+**結論：多數有大立繪的手遊，確實是「兩套資產」；但我這次沒找到官方說明，只有社群 wiki 的間接佐證。**
+
+- 明日方舟（Arknights）社群 wiki 的幹員頁把「Sprites（遊戲內小人）」和概念圖、宣傳立繪分成不同區塊。佐證兩者是分開的資產。來源：[Arknights Terra Wiki 幹員圖庫範例（Yato）](https://arknights.wiki.gg/wiki/Yato/Gallery)
+- 同一 wiki 的趣聞頁提到，某幹員的機械手在「遊戲內 Q 版」比在立繪更明顯。表示小人是重新設計、會強調辨識特徵，而不是把立繪縮小。來源：[Raidian 趣聞](https://arknights.wiki.gg/wiki/Raidian/Trivia)
+- 立繪由外包插畫家與內部美術畫，wiki 另列遊戲內美術師。來源：[Illustrators](https://arknights.wiki.gg/wiki/Illustrators)
+- Fire Emblem 系列：同人改作社群的資源庫把「肖像」和「戰鬥動畫／小人」當不同資源管理。來源：[FEUniverse 資源庫](https://feuniverse.us/t/fire-emblem-resource-repository-battle-animations-portraits-music-etc/3326/4495)。注意這是同人改作，不是 Fire Emblem Heroes 官方。
+- Kingdom Rush、Clash Royale、Bloons TD 6、Brawl Stars、PvZ：**未找到一手來源**，以下是二手推論：它們遊戲內都是單一卡通風格的小圖，圖鑑／卡片頁多半是同風格的放大版或另畫的較精緻版，我無法確認是同一張縮放還是分開畫。（PvZ 圖鑑僅查到有屬性、功能、短介紹，沒查到圖片規格：[StrategyWiki](https://strategywiki.org/wiki/Plants_vs._Zombies/Suburban_Almanac)）
+
+---
+
+## 問題 2：「圖鑑完整立繪＋遊戲內 Q 版」常見嗎？優缺點與成本
+
+**結論：在有「角色收集」賣點的手遊很常見；對獨立開發者是「畫兩次」的成本，一套圖兩用可行，但小圖要特別處理。**
+
+證據（皆為二手，未找到獨立開發者談「同一張立繪縮小當 sprite」的第一手經驗）：
+
+- 縮小時眼睛等細節會被縮到看不見，美術會刻意把頭、眼睛畫大；Q 版（大頭）在 32x32、64x64 這種小尺寸比較好辨識。來源：[itch.io 討論串：把圖轉像素圖](https://itch.io/t/1644999/focus-on-turning-art-into-pixel-art)
+- 先顧輪廓：縮到最終格子大小時，玩家仍要認得出身形與朝向。固定格子大小與色盤後再縮，否則像模糊縮圖。來源：[Sorceress 圖轉 sprite 流程](https://sorceress.games/blog/convert-image-to-pixel-art-game-sprite-pipeline)
+- 「加粗輪廓」這條原則：**未找到一手來源**，屬常識推論（縮小後細線會消失，粗線較耐縮）。
+
+優缺點（推論）：
+
+- 兩套分開：優點是兩邊都最好看；缺點是資產量約 x2，風格容易不一致。
+- 一套兩用：最省，但縮小後易糊、細節丟失。
+
+---
+
+## 問題 3：圖鑑點擊放大，全頁還是彈窗？
+
+**結論：兩者都常見。簡單「看大圖＋幾行字」用彈窗／底部面板；內容多或要沉浸時用全螢幕詳情頁。羊圈守夜這種單一角色一張圖加數值，彈窗足夠。**
+
+- Apple HIG：Modality 頁的摘要說，模態會打斷流程，應留給專注的單一任務；內容要簡單，並提供明確、容易的關閉方式；有些內容適合全螢幕。來源：[Apple HIG Modality](https://developer.apple.com/design/human-interface-guidelines/modality)（抓取只拿到摘要，非全文）
+- Apple HIG Sheets：sheet 會擋住底下畫面直到關閉；影片、照片這類內容或多步驟任務，建議考慮全螢幕模態。來源：[Apple HIG Sheets](https://developer.apple.com/design/human-interface-guidelines/sheets.md)
+- Material Design（舊版 M1 說法，經二手轉述）：全螢幕對話框僅限手機，適合複雜、多步驟任務；對話框本來就是刻意打斷，應少用。來源：[Material 對話框（M2）](https://m2.material.io/components/dialogs)、[M1 對話框](https://m1.material.io:443/components/dialogs.html)。M3 原文頁未抓到。
+- 手遊圖鑑實作：我只確認 PvZ 圖鑑有屬性＋介紹的詳情形式（見上）。第二款手遊的圖鑑描述：**未找到一手來源**。
+
+---
+
+## 對羊圈守夜的建議（由便宜到貴）
+
+**A. 現有 256px webp 直接在圖鑑做「點擊放大彈窗」（最便宜，建議先做）**
+成本：只改前端，不用新圖。256px 在手機放大到約 200-300px 顯示仍清楚。彈窗放圖、名字、數值、經文；點背景或叉叉關閉。
+
+**B. 圖鑑卡片本身放大**
+成本：低。圖鑑列表從小圖改兩欄大卡，不用彈窗也能看清楚。可和 A 一起做。
+
+**C. 遊戲內加強辨識度，不改美術**
+成本：低到中。選取單位時顯示放大浮動提示（頭像加名字）；棋盤角色加深色描邊或底圈，用程式處理。
+
+**D. 遊戲內改 Q 版頭像／大頭比例**
+成本：中到高。45 張要重生，風格要與現有圖一致。
+
+**E. 另生一套高解析全身立繪給圖鑑**
+成本：最高（約 45 張再做一輪，加上生圖與去背流程）。只有在確定要走「收集立繪」路線時才值得。
+
+**建議順序**：A + B 先做，看手機實測夠不夠；不夠再做 C；D、E 視擁有者想要的遊戲風格再決定。

diff --git a/docs/art-asset-plan-2026-10-26.md b/docs/art-asset-plan-2026-10-26.md
@@ -88,3 +88,8 @@
   - 陷坑第一輪畫成整片草地（沒有白底可去背），改口「一塊圓餅狀的土地切片懸在白底上」才對。
   - 第一個對話生到第 38 張（強盜之後）開始每題都回「違反裸露／色情防範機制」的誤判（連狗屋都擋），換新對話、附油燈＋火盆當風格參考就正常（對話「繪製狗屋道具」）。強盜其實有生出來，只是圖載入慢被我誤判沒生。
   - 標記類（狗屋、木樁、腳印、鏟子）在棋盤上是半透明小標記，升級角標只有 12px，換圖效果有限，主要是圖鑑裡看得到。
+
+- 2026-10-26 深夜 **仿主流手遊的三套圖分工（分支 feat/char-fullbody）**：James 看了 `research-portrait-vs-sprite-2026-10-26.md` 後拍板「直接做完整版」。
+  - **三套圖**：棋盤 `img/ico/q-<key>.webp`（Q 版小人，頭佔一半、細節少，縮到一格還認得出）、卡片與行內 `h-<key>.webp`（頭像）、圖鑑角色頁 `l-<key>.webp`（512px 立繪，從 1092px 原圖重出，48 張全有）。只有 28 個「角色」（人與動物）有 q／h，道具與標記照舊用 `c-*`。對照表在 index.html 的 `CHAR_KEYS`／`icoFile(e, use)`，棋盤那套由 `Board.init({ icons })` 傳進 render.js；q-* 載不到退回 c-*，再退文字。
+  - **生圖改請小居（Codex CLI）**：它有 `image_gen` 工具、能直接存 1024px PNG 到磁碟，不用再截圖；`-i` 附參考圖（角色原圖＋第一張 Q 版牧人當風格錨）。批次腳本一次一張、兩條並行（q／h），每張約 70–90 秒。坑：macOS 的 bash 3.2 遇到 `$desc）` 這種變數後面直接接全形字會吃掉下一個字的位元組，要寫 `${desc}`；提示詞用 stdin 餵（`-` 當 prompt），不然 `-i` 會把 prompt 吃成檔名。原圖存 `img/char/<key>-q-src.png`／`<key>-head-src.png`。
+  - **圖鑑角色頁**：說明區改成左立繪右文字，立繪點一下開燈箱（`#lightbox`）看 360px 大圖＋名字＋稱號＋出處。每個單位與敵人在 data.js 加了 `title` 一句稱號（41 條，取自出處經文）。data v15、render v18。
